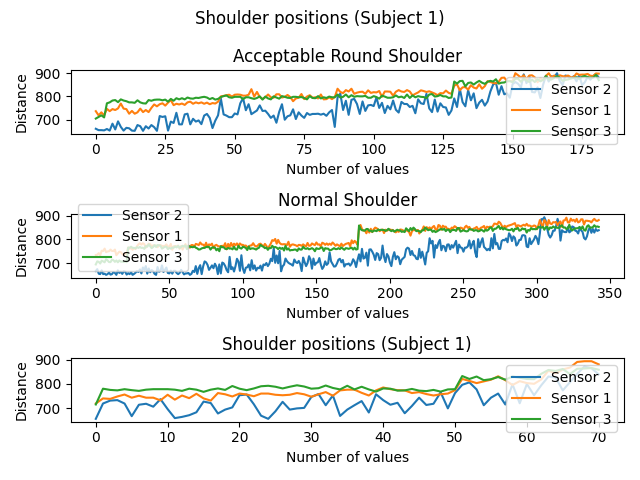
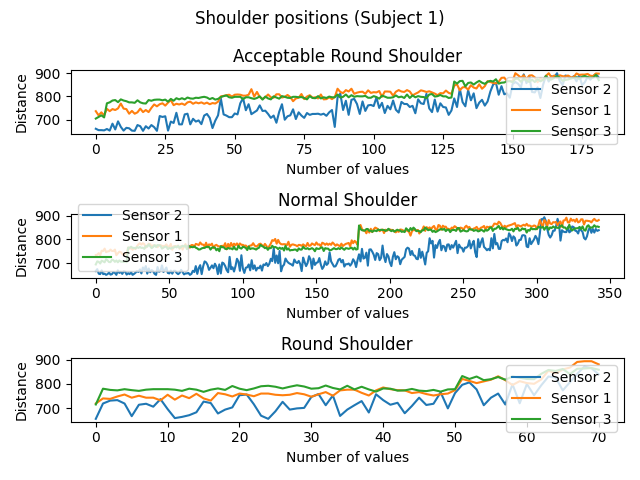
1. Fixed subplot titles 2. Changed the name of the files

Changed region(s): [[0.3438, 0.6875, 0.7188, 0.75]]

diff --git a/data_processor.py b/data_processor.py
@@ -2,7 +2,7 @@ import pandas as pd
 import matplotlib.pyplot as plt
 
 columns_to_compress = ["Sensor 2", "Sensor 1", "Sensor 3"]
-save_file_path = "data_storage/images/default.png"
+save_file_path      = "data_storage/images/default.png"
 
 
 def show_subplots(data: dict, title: str) -> None:
@@ -30,8 +30,7 @@ def show_subplots(data: dict, title: str) -> None:
         key = list(data.keys())[0]
         modify_axe(axs, value, subplot_title=key)
     plt.tight_layout()
-    plt.title(title)
-    plt.show()
+    # plt.show()
     """ Save image """
     global save_file_path
     file_path = save_file_path.replace("default.png", title)
@@ -39,6 +38,10 @@ def show_subplots(data: dict, title: str) -> None:
 
 
 def compress_sensors_data(df: pd.DataFrame, columns: list[str]) -> list[list[float]]:
+    """ Return the list of the sensors values as list of list
+    where index represents sensor number
+    :returns [[650, 651, ...], [850, 851, ...], [650, 651, ...]]
+    """
     result = []
     for col_name in columns:
         result.append(df[col_name].tolist())

diff --git a/main.py b/main.py
@@ -14,7 +14,7 @@ if __name__ == '__main__':
     dataframes = dc.split_per_person(df=df_original, num_splits=5)
 
     size_data = dp.get_compressed_data(dc.exclude_errors(df_original), group_column=f"Size")
-    dp.show_subplots(data=size_data, title=f"Size vs Sensors")
+    dp.show_subplots(data=size_data, title=f"Shoulder Size vs Sensors")
 
     for i, df in enumerate(dataframes):
         df = dc.exclude_errors(df)
@@ -28,3 +28,6 @@ if __name__ == '__main__':
 
         dp.show_subplots(data=head_data, title=f"Head Positions (Subject {i+1})")
         dp.show_subplots(data=shoulder_data, title=f"Shoulder positions (Subject {i+1})")
+        # if i == 0:
+        #     # stop at the first iteration
+        #     break
